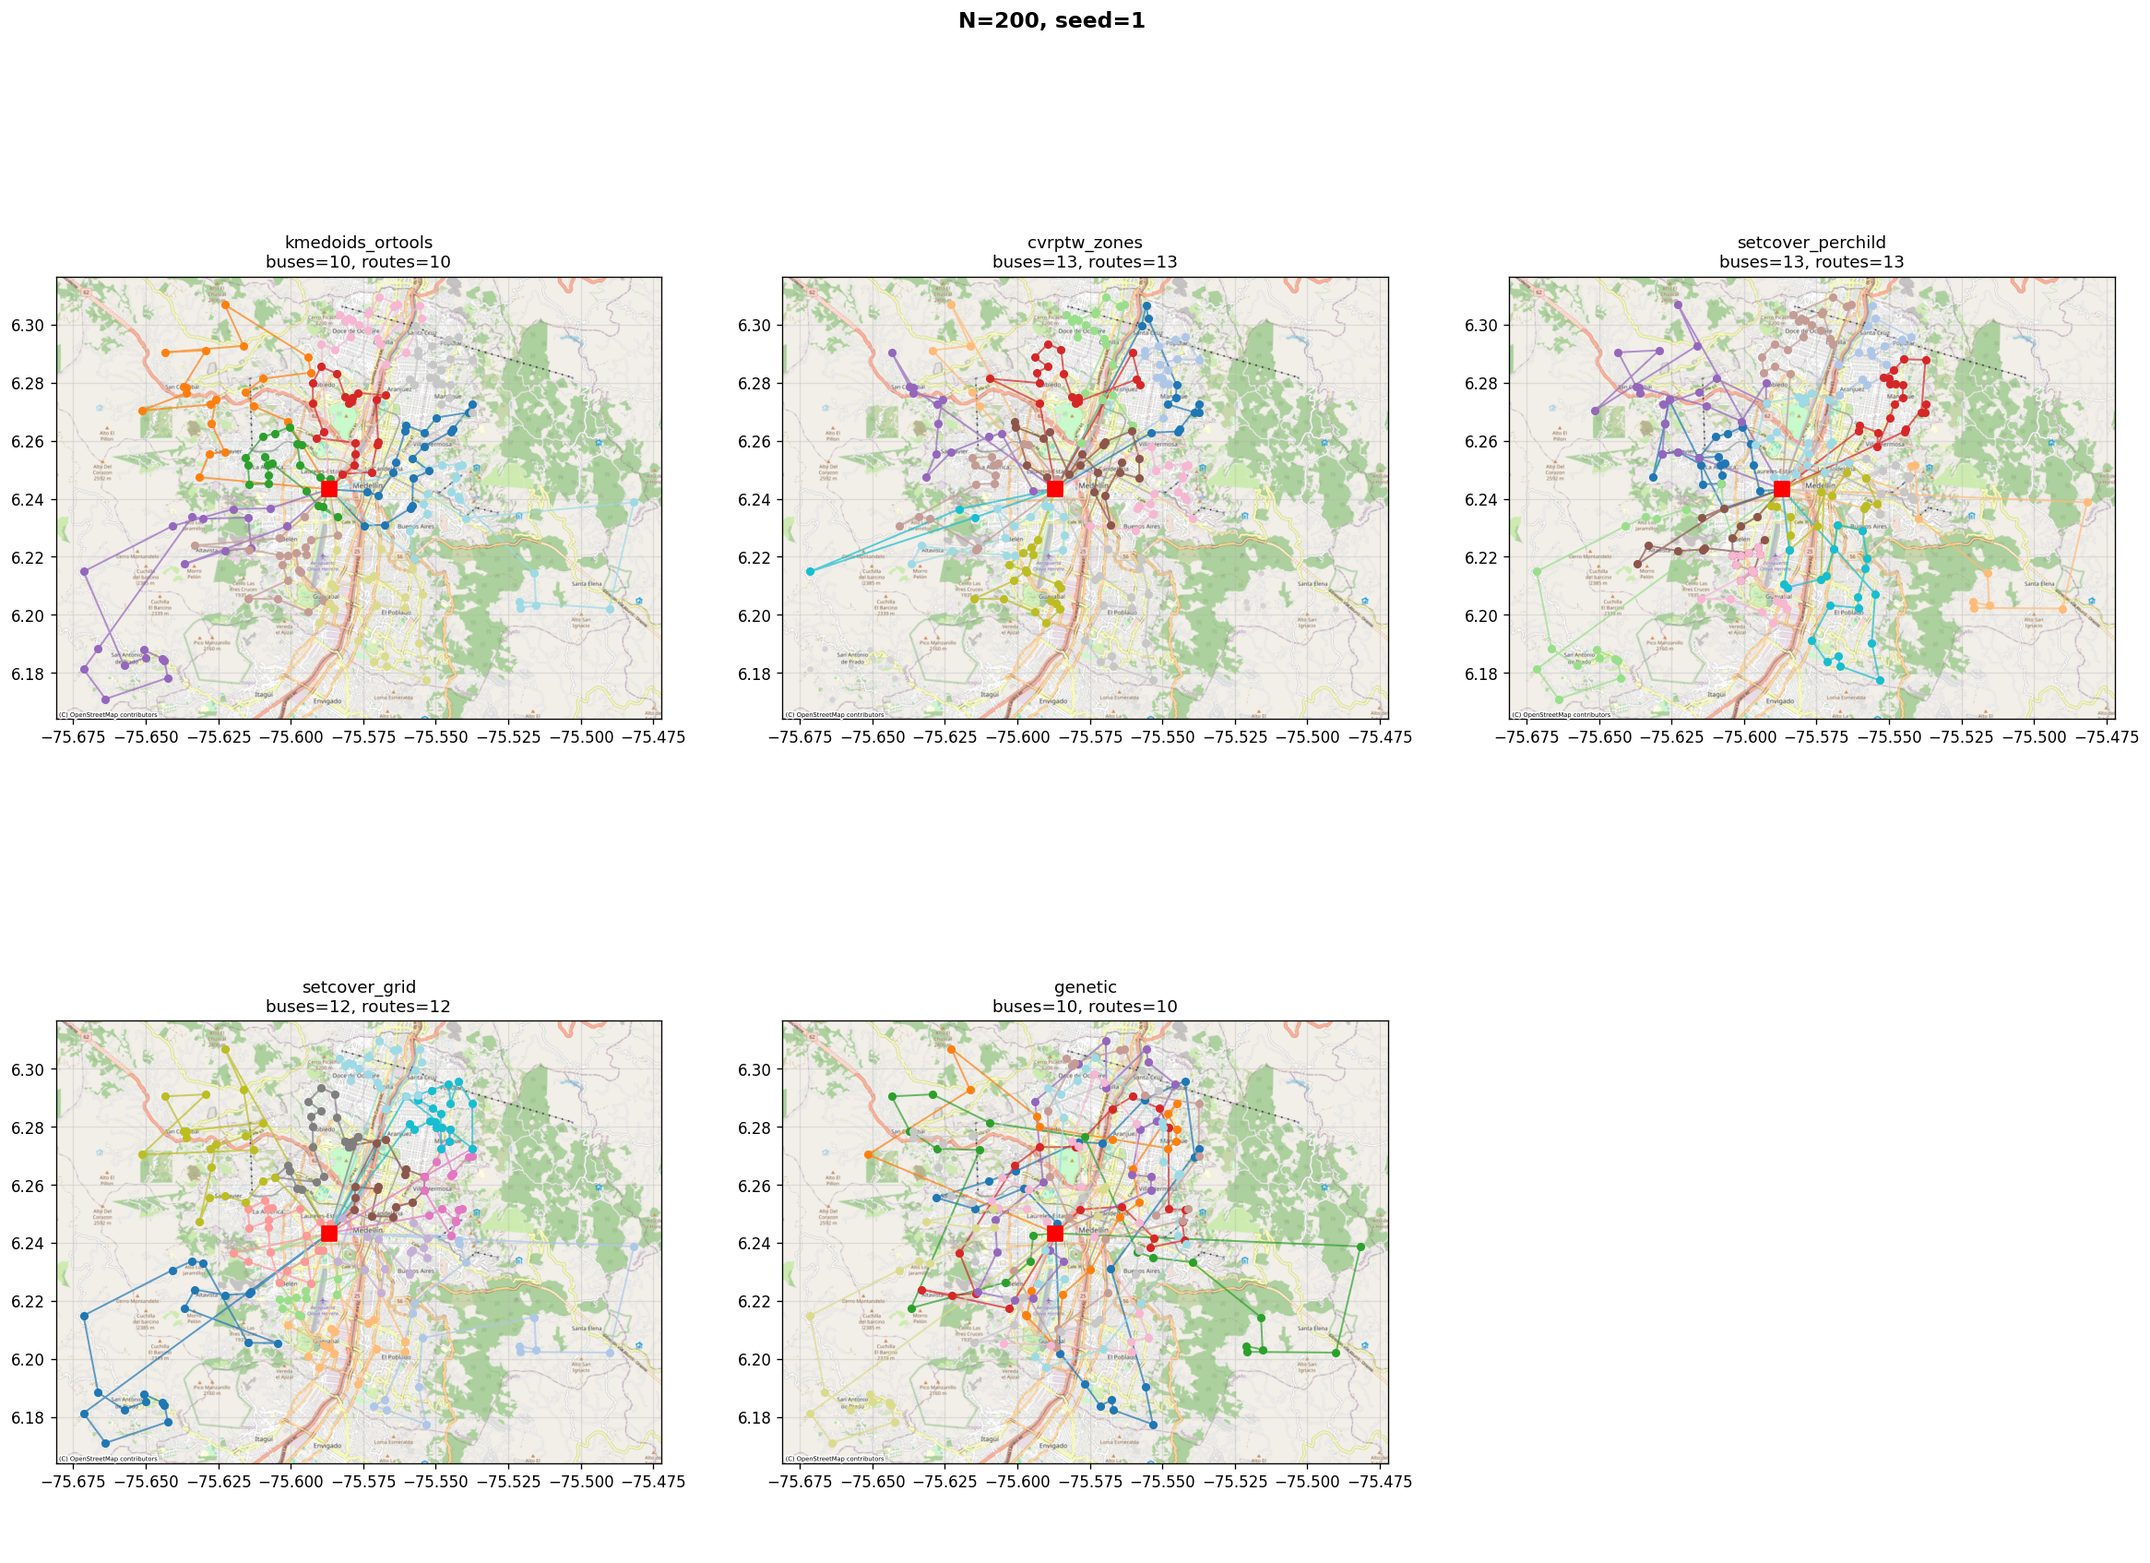
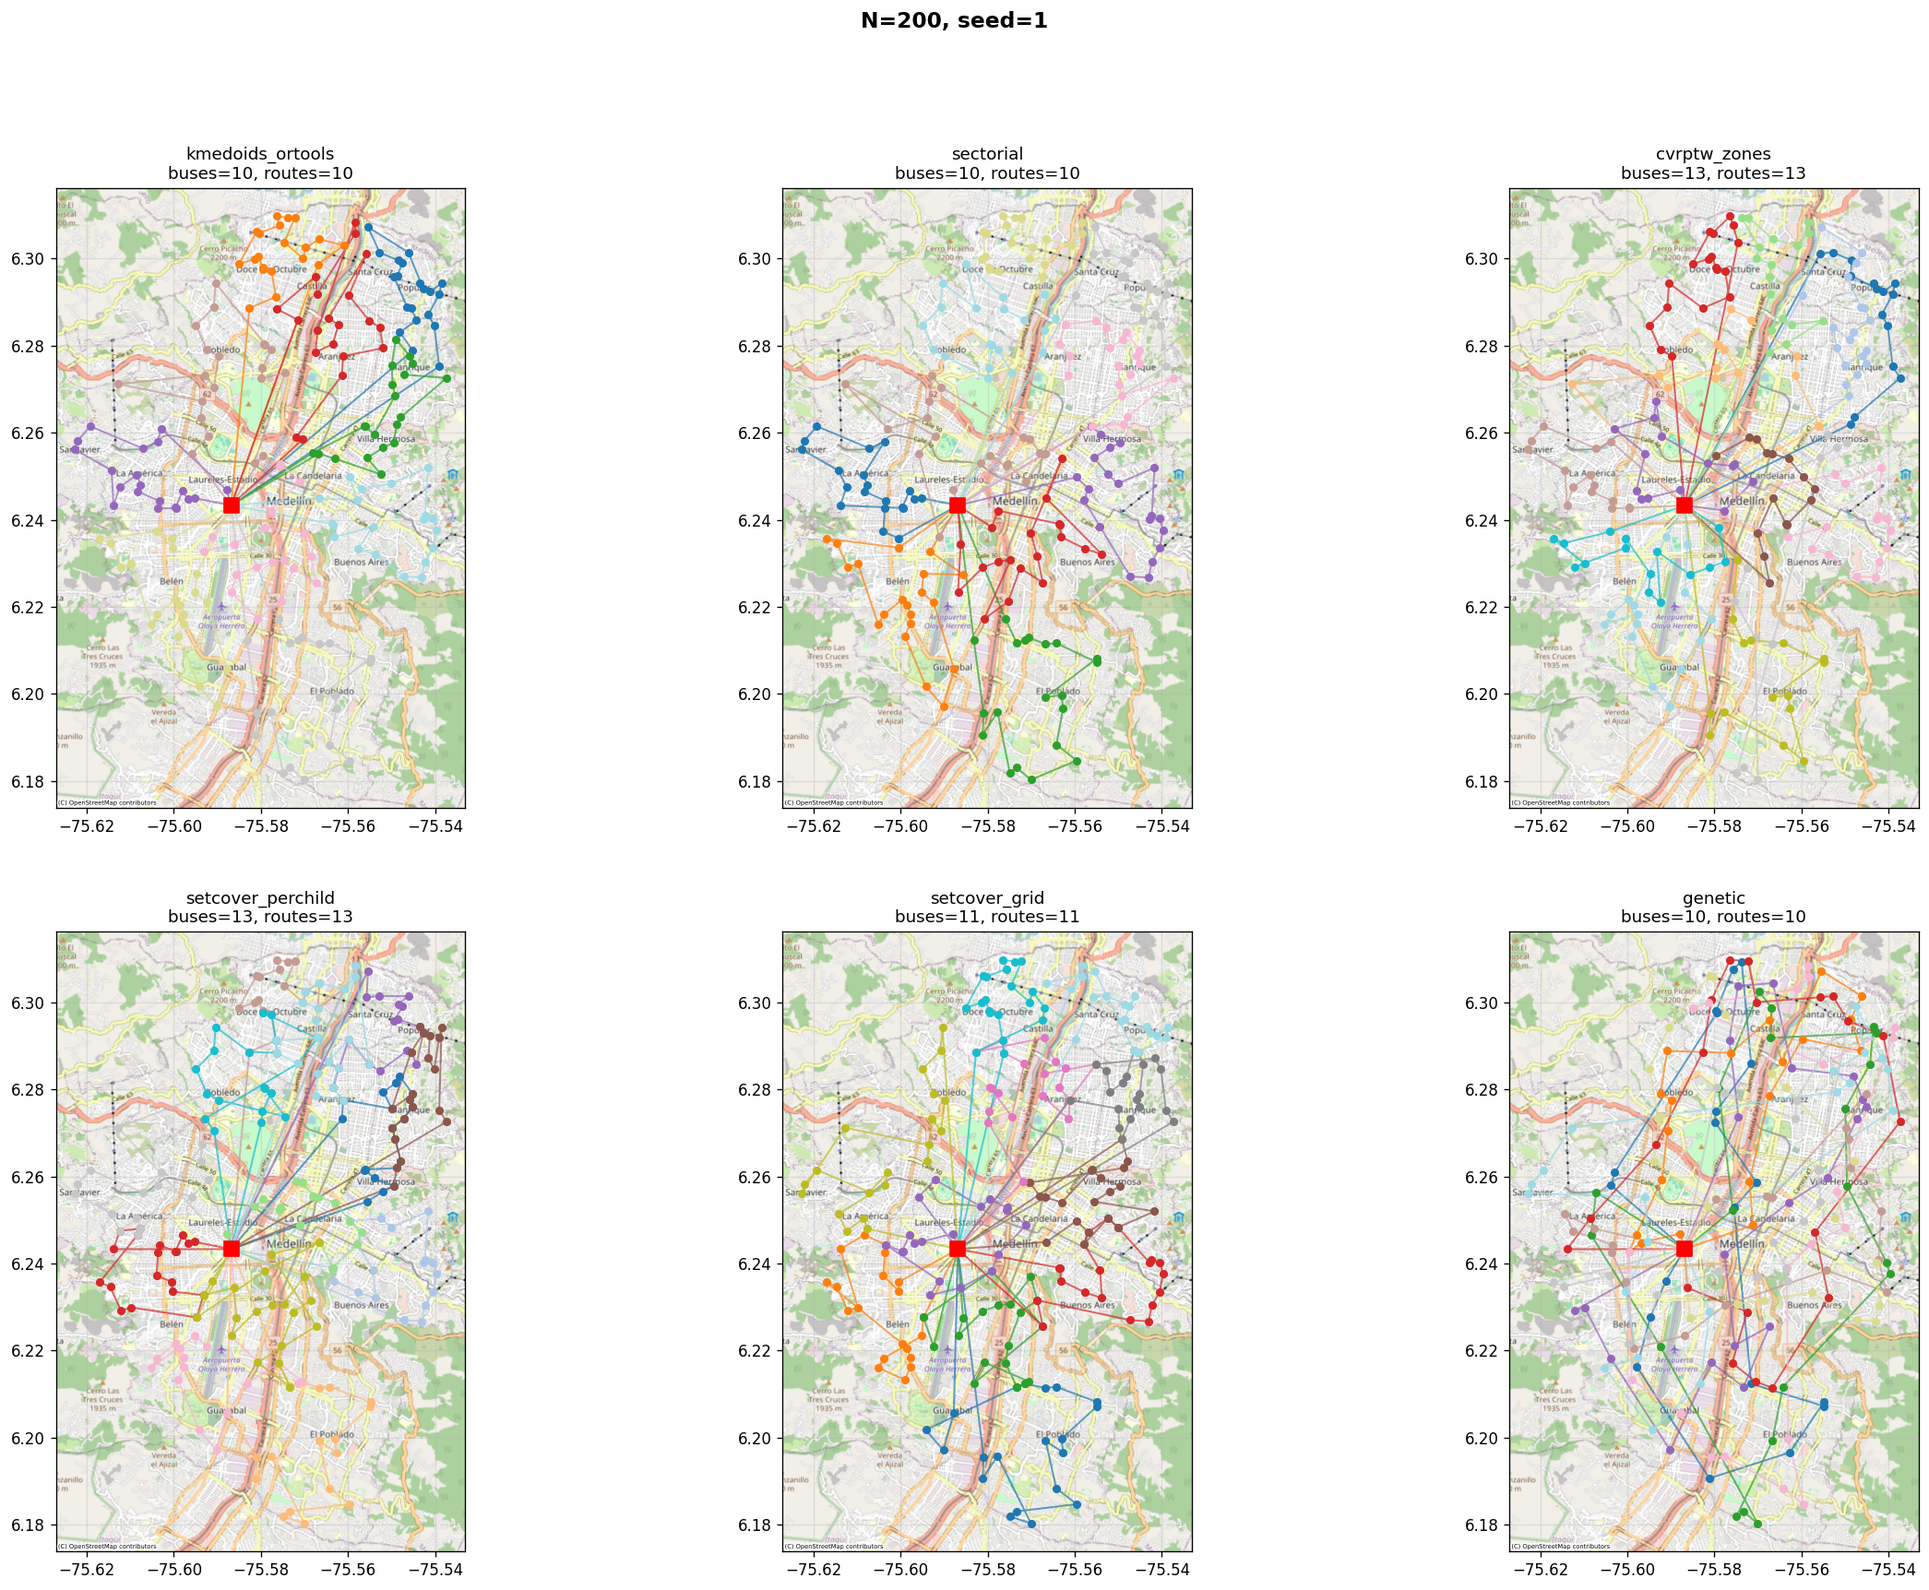
docs(paper): add sectorial algorithm, refresh results, add bibliography
- Add the sectorial clustering method to the comparison: now 6 algorithms
  and 72 runs (algorithm list, experimental-design counts, repo tree).
- Refresh both result tables (fleet distance, latency) and the scalability
  and comparison-grid figures from a full 6-algorithm re-run on current main
  (post polygon-clipping fix), so all numbers are internally consistent.
  K-medoids+TSP and sectorial are the two best full-coverage methods;
  sectorial attains the lowest distance at N=400 and the highest silhouette.
- Update the CVRPTW coverage footnote (now leaves ~1% unserved, not 7-13%)
  and the Set Cover latency finding (grid variant now ~68 s at N=400).
- Add refs.bib (SBRP reviews, cluster-first-route-second, TSP heuristic)
  pulled via Mendeley; wire up bibtex and weave citations into the intro
  and methods.
- Credit Sara Ruaga in the author line.

diff --git a/docs/latex/optimization.tex b/docs/latex/optimization.tex
@@ -13,7 +13,7 @@
 \title{Capacitated School Bus Routing via Clustering and Network-Based Optimization \\ 
 \large Enrutamiento Capacitado de Transporte Escolar mediante Clustering y Optimización Basada en Redes en Medellín}
 
-\author{Susana Toro Castaño, Roberto Hincapié, Roy Sandoval, Mariana Arbelaez \\
+\author{Susana Toro Castaño, Roberto Hincapié, Roy Sandoval, Mariana Arbelaez, Sara Ruaga \\
 \small Ingeniería en Ciencia de Datos, Universidad Pontificia Bolivariana, 2026}
 
 \date{} 
@@ -28,14 +28,18 @@ The proposed approach integrates graphs extracted from OpenStreetMap, capacitate
 The system models a single school as the main depot and assigns student stops to buses under capacity constraints.
 Distances are computed over the actual road network using shortest paths, after which students are grouped while respecting vehicle capacities, and finally a closed route is optimized for each bus using a Traveling Salesman Problem (TSP)-style formulation.
 The methodology generates feasible and efficient routes while minimizing the total fleet distance in a realistic urban transportation environment.
+We further benchmark six clustering- and covering-based routing strategies on identical Medellín road-network scenarios under a common solver interface, and find that capacitated k-medoids and a multi-objective sectorial clustering attain the lowest fleet distance among the full-coverage methods.
 \end{abstract}
 
 % I REMOVED THE EXTRA \begin{document} AND \maketitle FROM HERE
 
 \section{INTRODUCCIÓN}
-La planificación de rutas escolares constituye un problema complejo de optimización...
+La planificación de rutas escolares (\emph{School Bus Routing Problem}, SBRP) constituye un problema complejo de optimización combinatoria que generaliza al problema de enrutamiento de vehículos: se busca planificar una flota de buses que recoja a los estudiantes y los lleve a su colegio respetando restricciones de capacidad, tiempo máximo de viaje y ventanas horarias~\cite{Park2010TheReview}.
+La revisión de Park y Kim~\cite{Park2010TheReview} descompone el SBRP en subproblemas (preparación de datos, selección de paradas, generación de rutas, ajuste de horarios y programación), y trabajos más recientes confirman que la mayoría de las soluciones prácticas siguen siendo heurísticas y dependen del contexto~\cite{Ellegood2020SchoolDirections}.
 
-% ... [Rest of your sections remain the same] ...
+Una familia clásica de heurísticas para la generación de rutas es el paradigma \emph{cluster-first, route-second}: primero se agrupan los estudiantes en conglomerados compatibles con la capacidad del bus y luego se resuelve un problema del agente viajero (TSP), para el cual se conocen heurísticas muy efectivas~\cite{HelsgaunAnHeuristic}, dentro de cada grupo~\cite{CakirRevisitingProblem,Comert2018AStudy}.
+El agrupamiento puede guiarse por objetivos múltiples y a menudo conflictivos, como minimizar simultáneamente el número de buses y el tiempo de viaje de los estudiantes~\cite{Corberan2002HeuristicObjectives}.
+En este trabajo implementamos y comparamos empíricamente seis estrategias de solución sobre escenarios idénticos generados a partir del grafo vial real de Medellín y el Valle de Aburrá, bajo una interfaz común que garantiza una evaluación justa.
 
 \section{IMPLEMENTACIÓN}
 
@@ -66,7 +70,7 @@ src/
     |                       Solution, metrics)
     |-- data/             (generador de
     |                       escenarios + zonas)
-    |-- adapters/         (5 algoritmos)
+    |-- adapters/         (6 algoritmos)
     |-- viz/              (plotter unificado)
     `-- run_benchmark.py  (CLI)
 \end{verbatim}
@@ -75,12 +79,13 @@ src/
 
 Para comparar empíricamente las distintas estrategias de solución desarrolladas por el equipo se construyó un \emph{harness} de evaluación unificado bajo una interfaz \texttt{Solver} común.
 Cada algoritmo se expone como un adaptador que recibe un \texttt{Scenario} (mismo grafo vial, mismas localizaciones de niños, misma capacidad de bus) y devuelve un \texttt{Solution} (lista de rutas y, opcionalmente, etiquetas de cluster).
-Esto garantiza que las cinco metodologías se evalúen sobre datos idénticos y bajo las mismas restricciones.
+Esto garantiza que las seis metodologías se evalúen sobre datos idénticos y bajo las mismas restricciones.
 
 \subsection{Algoritmos evaluados}
 
 \begin{enumerate}
-    \item \textbf{K-medoids + OR-Tools TSP} (pipeline base): clustering capacitado por k-medoides con asignación min-cost flow seguido de TSP por cluster con OR-Tools.
+    \item \textbf{K-medoids + OR-Tools TSP} (pipeline base): clustering capacitado por k-medoides con asignación min-cost flow seguido de TSP por cluster con OR-Tools, siguiendo el paradigma \emph{cluster-first, route-second}~\cite{Comert2018AStudy}.
+    \item \textbf{Clustering sectorial (barrido angular)}: cada niño se puntúa mediante una combinación multiobjetivo de su posición angular y su distancia radial respecto al colegio~\cite{Corberan2002HeuristicObjectives}; un barrido angular los agrupa en sectores acotados por capacidad que luego se refinan con una asignación de flujo de costo mínimo en torno a medoides por cluster, y finalmente se resuelve un TSP por cluster con OR-Tools. Se inspira en los esquemas de agrupamiento por forma respecto al depósito~\cite{CakirRevisitingProblem}.
     \item \textbf{CVRPTW por zonas}: 6 zonas geográficas fijas (comunas y municipios del Valle de Aburrá) resueltas con un CVRPTW de OR-Tools con ventanas de tiempo, tiempo de abordaje y duración máxima de ruta.
     \item \textbf{Set Cover por niño}: cada niño semilla genera una ruta candidata por empaque NN sobre la matriz de distancias; PuLP/CBC selecciona el mínimo número de rutas que cubren todos los niños.
     \item \textbf{Set Cover sobre rejilla}: semillas en una rejilla cartesiana sobre la región; cada semilla produce una ruta candidata mediante TSP \emph{greedy}; la ILP minimiza la distancia total cubriendo a todos los niños.
@@ -89,7 +94,7 @@ Esto garantiza que las cinco metodologías se evalúen sobre datos idénticos y 
 
 \subsection{Diseño experimental}
 
-Se generaron escenarios aleatorios sobre el grafo vial real de Medellín y el Valle de Aburrá (OSMnx, componente fuertemente conexo más grande) variando la densidad estudiantil $N \in \{50, 100, 200, 400\}$ y tres semillas distintas por densidad, lo que produce 12 escenarios y un total de 60 corridas (5 algoritmos $\times$ 12 escenarios).
+Se generaron escenarios aleatorios sobre el grafo vial real de Medellín y el Valle de Aburrá (OSMnx, componente fuertemente conexo más grande) variando la densidad estudiantil $N \in \{50, 100, 200, 400\}$ y tres semillas distintas por densidad, lo que produce 12 escenarios y un total de 72 corridas (6 algoritmos $\times$ 12 escenarios).
 Cada escenario comparte el mismo nodo escolar (UPB), la misma capacidad de bus $C=20$ y la misma matriz de distancias direccionales sobre el camino más corto.
 Las métricas registradas son: distancia total de la flota, latencia computacional (tiempo de pared), número de buses utilizados, cobertura, índice de silueta sobre la matriz simétrica de distancias y violaciones de capacidad.
 
@@ -107,15 +112,16 @@ La Tabla~\ref{tab:latency} reporta la latencia y la Figura~\ref{fig:scalability}
 \hline
 \textbf{Algoritmo} & $N{=}50$ & $N{=}100$ & $N{=}200$ & $N{=}400$ \\
 \hline
-CVRPTW zonas$^\ast$ & 134$\pm$4 & 198$\pm$16 & 356$\pm$27 & 590$\pm$46 \\
-K-medoids+TSP       & 193$\pm$16 & 280$\pm$13 & 398$\pm$19 & \textbf{641$\pm$13} \\
-SetCover rejilla    & 235$\pm$26 & 344$\pm$26 & 509$\pm$17 & 828$\pm$35 \\
-SetCover por niño   & 324$\pm$29 & 396$\pm$28 & 557$\pm$23 & 904$\pm$18 \\
-Algoritmo Genético  & 204$\pm$18 & 336$\pm$22 & 613$\pm$24 & 1438$\pm$18 \\
+K-medoids+TSP        & \textbf{108$\pm$8} & \textbf{157$\pm$6} & \textbf{277$\pm$25} & 465$\pm$31 \\
+Clustering sectorial & 109$\pm$7 & 161$\pm$6 & 278$\pm$23 & \textbf{464$\pm$32} \\
+CVRPTW zonas$^\ast$  & 132$\pm$10 & 183$\pm$3 & 295$\pm$9 & 472$\pm$9 \\
+SetCover por niño    & 169$\pm$24 & 241$\pm$24 & 385$\pm$29 & 679$\pm$17 \\
+SetCover rejilla     & 139$\pm$9 & 213$\pm$4 & 344$\pm$20 & 590$\pm$23 \\
+Algoritmo Genético   & 118$\pm$11 & 206$\pm$3 & 466$\pm$20 & 995$\pm$43 \\
 \hline
 \end{tabular}
 \\[2pt]
-\footnotesize $^\ast$ CVRPTW deja entre 7\% y 13\% de los niños sin servir (cobertura $\le 0.93$); su distancia, por tanto, no es directamente comparable.
+\footnotesize $^\ast$ CVRPTW deja hasta $\sim$1\% de los niños sin servir (cobertura $\ge 0.99$) cuando el límite de duración por ruta lo impide; su distancia, por tanto, no es estrictamente comparable. Valores en \textbf{negrita}: mínimo por columna entre los métodos de cobertura completa.
 \end{table}
 
 \begin{table}[h]
@@ -127,11 +133,12 @@ Algoritmo Genético  & 204$\pm$18 & 336$\pm$22 & 613$\pm$24 & 1438$\pm$18 \\
 \hline
 \textbf{Algoritmo} & $N{=}50$ & $N{=}100$ & $N{=}200$ & $N{=}400$ \\
 \hline
-SetCover por niño   & 0.01 & 0.02 & 0.04 & 0.16 \\
-SetCover rejilla    & 0.24 & 0.58 & 1.51 & 9.08 \\
-Algoritmo Genético  & 7.4  & 21.3 & 52.7 & 115.9 \\
-K-medoids+TSP       & 15.0 & 25.0 & 50.2 & 101.6 \\
-CVRPTW zonas        & 100  & 100  & 100  & 100 \\
+K-medoids+TSP        & 15.0 & 25.0 & 50.2 & 101.1 \\
+Clustering sectorial & 15.0 & 25.0 & 50.3 & 101.2 \\
+CVRPTW zonas         & 100  & 100  & 100  & 100 \\
+SetCover por niño    & 0.01 & 0.02 & 0.05 & 0.16 \\
+SetCover rejilla     & 0.31 & 0.65 & 2.22 & 67.6 \\
+Algoritmo Genético   & 5.5  & 22.2 & 47.4 & 116.5 \\
 \hline
 \end{tabular}
 \end{table}
@@ -146,20 +153,24 @@ CVRPTW zonas        & 100  & 100  & 100  & 100 \\
 \begin{figure*}[t]
 \centering
 \includegraphics[width=0.95\textwidth]{figures/comparison_grid_N200.png}
-\caption{Soluciones de los cinco algoritmos sobre el mismo escenario ($N{=}200$, semilla 1).
-De izquierda a derecha y de arriba a abajo: K-medoids+TSP, CVRPTW por zonas, Set Cover por niño, Set Cover sobre rejilla, Algoritmo Genético.}
+\caption{Soluciones de los seis algoritmos sobre el mismo escenario ($N{=}200$, semilla 1).
+De izquierda a derecha y de arriba a abajo: K-medoids+TSP, Clustering sectorial, CVRPTW por zonas, Set Cover por niño, Set Cover sobre rejilla, Algoritmo Genético.}
 \label{fig:grid}
 \end{figure*}
 
 \subsection{Hallazgos principales}
 
 \begin{itemize}
-    \item Bajo la restricción de cobertura completa, \textbf{K-medoids + OR-Tools TSP} es el algoritmo de menor distancia total a $N{=}400$ (641~km, vs.\ 828~km de Set Cover sobre rejilla y 904~km de Set Cover por niño), con latencia que crece linealmente con el número de clusters.
-    \item El \textbf{CVRPTW zonal} produce las distancias absolutas más bajas, pero a costa de dejar de 7\% a 13\% de los niños sin servir cuando el límite de duración por ruta no permite servirlos. Este hallazgo motiva relajar \texttt{MAX\_ROUTE\_MINUTES} o usar más buses por zona.
-    \item Las dos variantes de \textbf{Set Cover} ofrecen el mejor compromiso latencia/cobertura: $\le 10$~s para $N{=}400$ con cobertura 100\%, aunque su calidad de ruta queda 30--40\% por encima del óptimo de K-medoids+TSP debido al uso de tours por vecino más cercano.
-    \item El \textbf{Algoritmo Genético} con codificación por permutación y decodificador codicioso degrada con el tamaño: a $N{=}400$ produce 1438~km, más del doble que K-medoids+TSP. La silueta negativa indica clusters dispersos: el operador de partición no respeta la proximidad espacial. Esto refuerza la conclusión, conocida en la literatura de VRP, de que un GA \emph{plano} sin operadores conscientes de la topología requiere muchas más generaciones o un esquema de codificación distinto (por ejemplo, codificación por rutas con operadores de inserción/2-opt internos).
+    \item Bajo cobertura completa, \textbf{K-medoids + OR-Tools TSP} y el \textbf{Clustering sectorial} son las dos mejores estrategias y quedan prácticamente empatadas en distancia: K-medoids domina en las densidades bajas y el sectorial alcanza la menor distancia a $N{=}400$ (464~km frente a 465~km), con un perfil de latencia idéntico ($\approx$101~s) dominado por el TSP por cluster.
+    \item El \textbf{Clustering sectorial} obtiene además la silueta más alta a gran escala (0.287 frente a 0.280 de K-medoids a $N{=}400$): el barrido angular seguido de la asignación por flujo de costo mínimo produce sectores compactos y bien separados, en línea con los esquemas de agrupamiento por forma respecto al depósito~\cite{CakirRevisitingProblem}.
+    \item El \textbf{CVRPTW zonal} entrega distancias competitivas pero deja hasta $\sim$1\% de los niños sin servir (cobertura $\ge 0.99$) y emplea más buses que el óptimo ($\approx$23 frente a 20 a $N{=}400$); su tiempo está fijado por el presupuesto de cómputo de OR-Tools (100~s).
+    \item Entre las variantes de \textbf{Set Cover}, la versión \emph{por niño} es la más rápida (0.16~s a $N{=}400$) pero la de peor calidad de ruta (679~km), mientras que la de \emph{rejilla} escala mal en tiempo (67.6~s a $N{=}400$, con alta varianza) por el costo de resolver la ILP a medida que crece el número de rutas candidatas.
+    \item El \textbf{Algoritmo Genético} con codificación por permutación y decodificador codicioso degrada con el tamaño: a $N{=}400$ produce 995~km, más del doble que K-medoids+TSP, con silueta negativa indicando clusters dispersos. Esto refuerza la conclusión, conocida en la literatura de VRP, de que un GA \emph{plano} sin operadores conscientes de la topología requiere muchas más generaciones o un esquema de codificación distinto.
 \end{itemize}
 
 % ... [Rest of your sections remain the same] ...
+
+\bibliographystyle{ieeetr}
+\bibliography{refs}
 
 \end{document}
